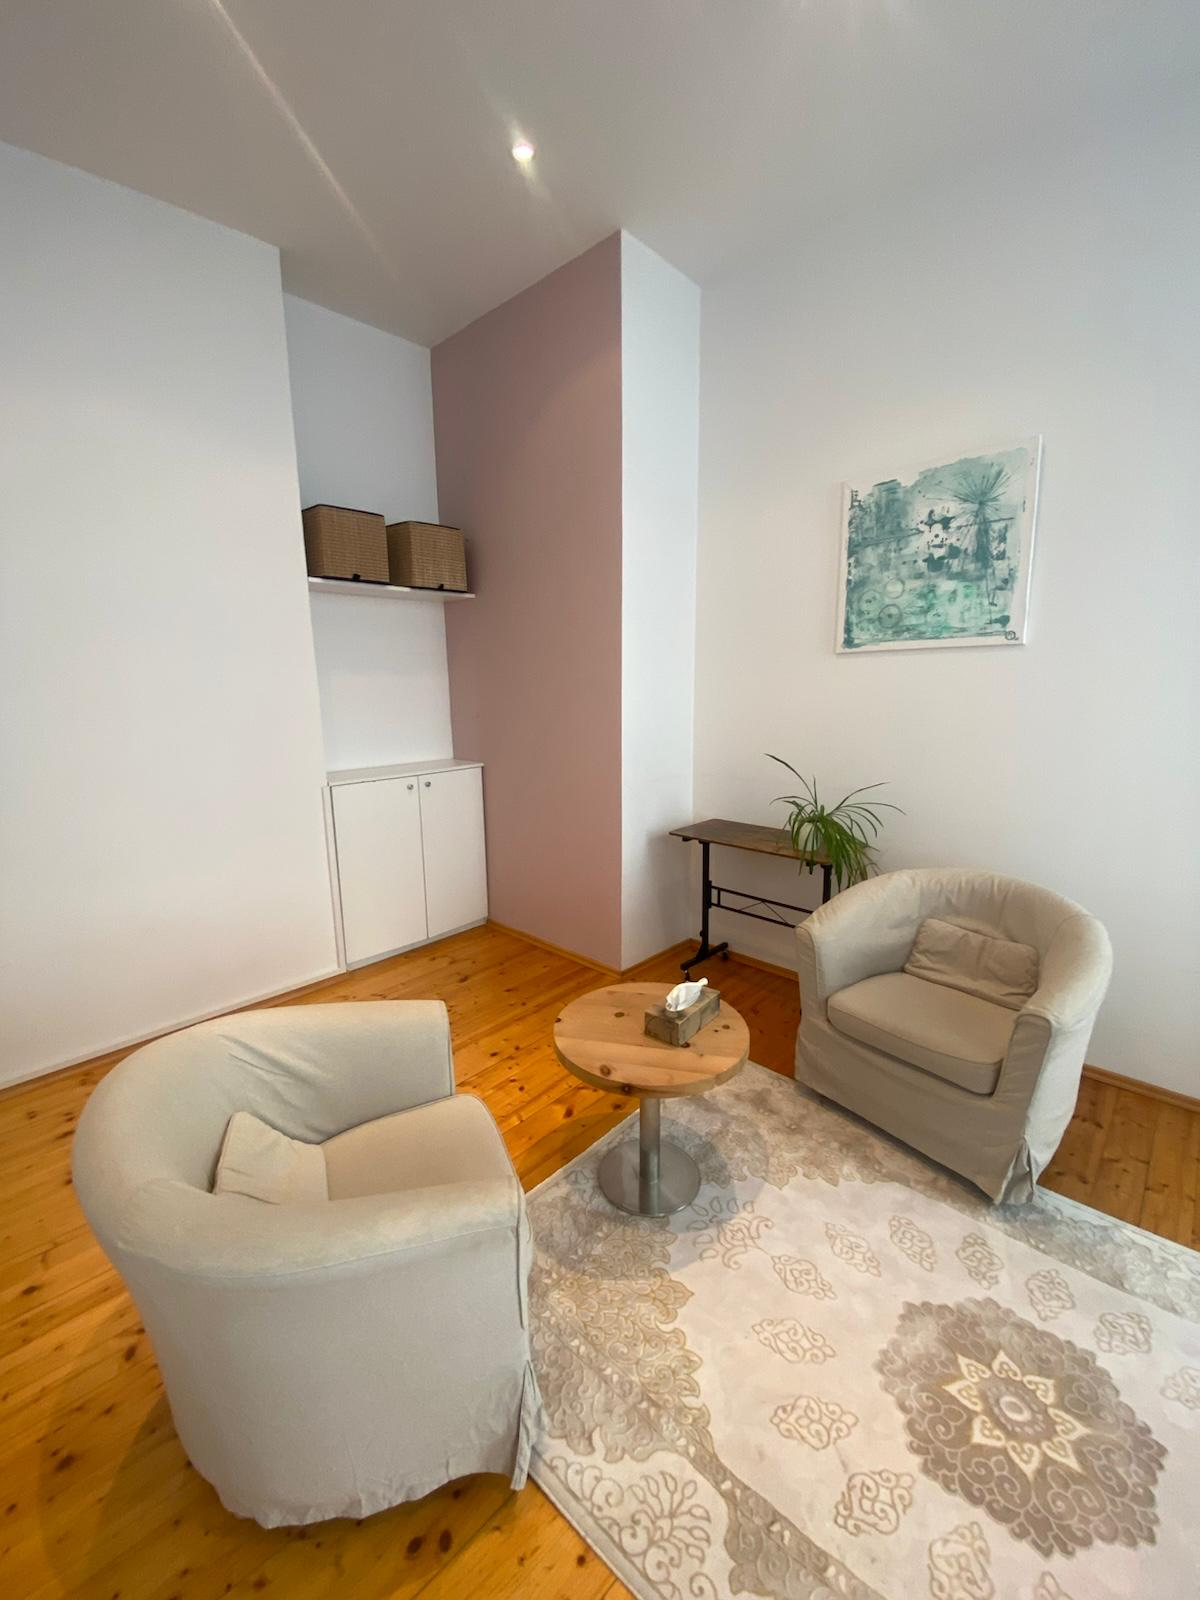
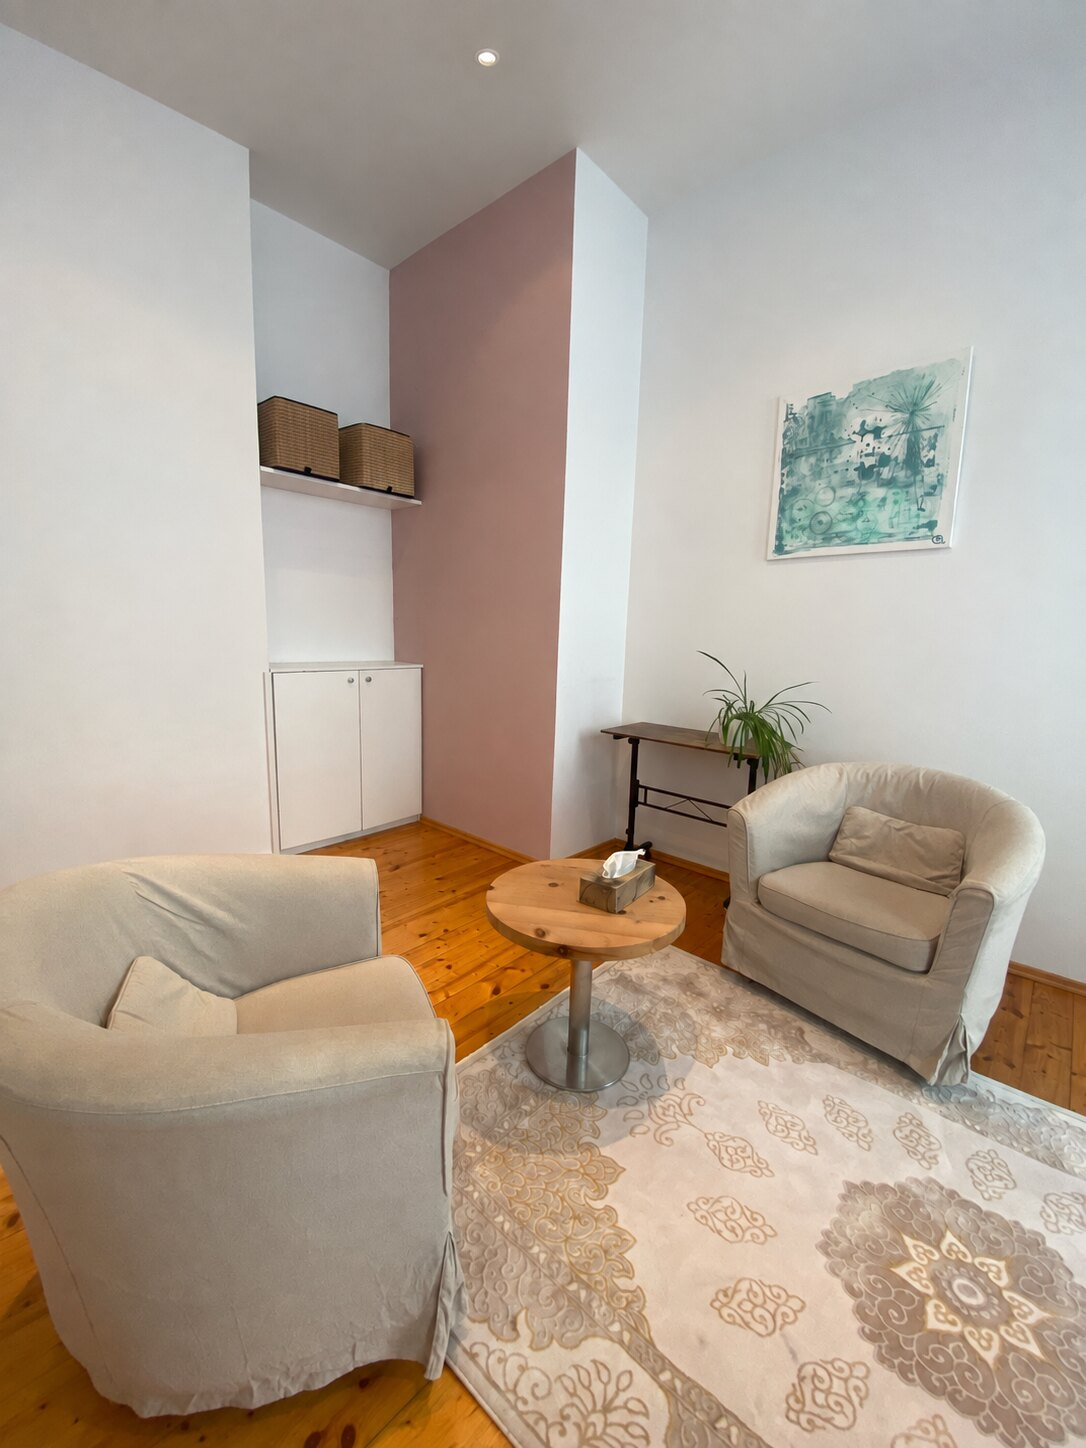
Praxisfoto1 durch retuschierte Fassung ersetzen
Lichtstreifen und Ueberstrahlung an der Decke entfernt. Das neue Foto
misst 1086x1448 statt 1200x1600 (gleiches 3:4-Format), die Masse im
img-Tag sind angepasst. Weil es enger geschnitten ist, sitzt der mobile
4:3-Ausschnitt fuer dieses Foto bei 54 % statt 62 %, damit Koerbe und
Wandbild im Bild bleiben.

diff --git a/index.html b/index.html
@@ -1515,6 +1515,12 @@
         object-position: center 62%;
       }
 
+      /* Praxisfoto1 ist seit der Retusche enger geschnitten: etwas höher
+         ansetzen, damit Körbe und Bild an der Wand im Ausschnitt bleiben. */
+      .praxisraum-photo:nth-child(2) img {
+        object-position: center 54%;
+      }
+
       .praxisraum-photo:nth-child(3) {
         display: none;
       }
@@ -1755,7 +1761,7 @@
             <img src="Praxisfoto2.jpeg" width="1200" height="1600" loading="lazy" decoding="async" alt="Praxisraum mit Blick zum Fenster, Pflanzen und Bildern an der Wand" />
           </a>
           <a href="Praxisfoto1.jpeg" class="praxisraum-photo" aria-label="Foto vergrößern">
-            <img src="Praxisfoto1.jpeg" width="1200" height="1600" loading="lazy" decoding="async" alt="Praxisraum mit zwei Sesseln, rundem Tisch und Bild an der Wand" />
+            <img src="Praxisfoto1.jpeg" width="1086" height="1448" loading="lazy" decoding="async" alt="Praxisraum mit zwei Sesseln, rundem Tisch und Bild an der Wand" />
           </a>
           <a href="Praxisfoto3.jpeg" class="praxisraum-photo" aria-label="Foto vergrößern">
             <img src="Praxisfoto3.jpeg" width="1200" height="1600" loading="lazy" decoding="async" alt="Praxisraum mit Sesseln, Stehlampe und Pflanze" />
